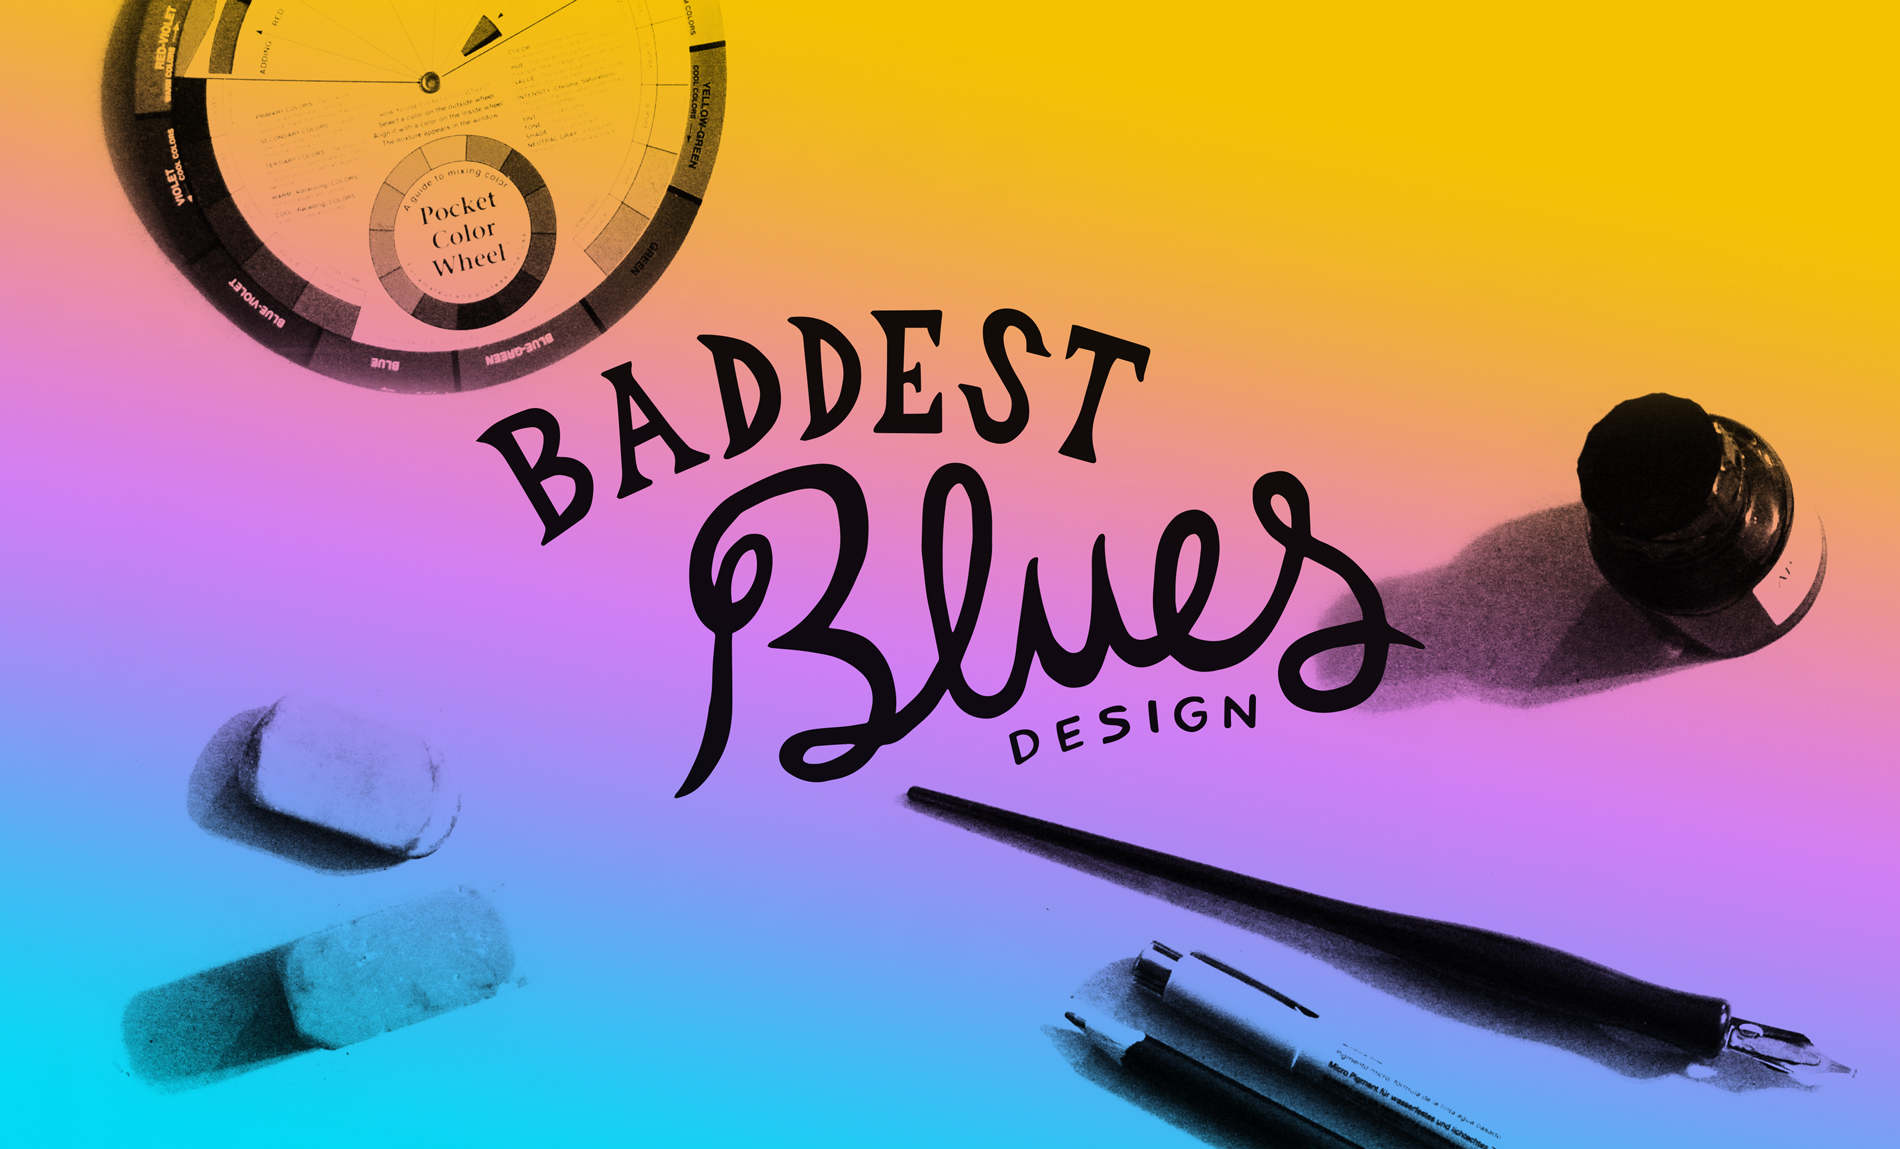
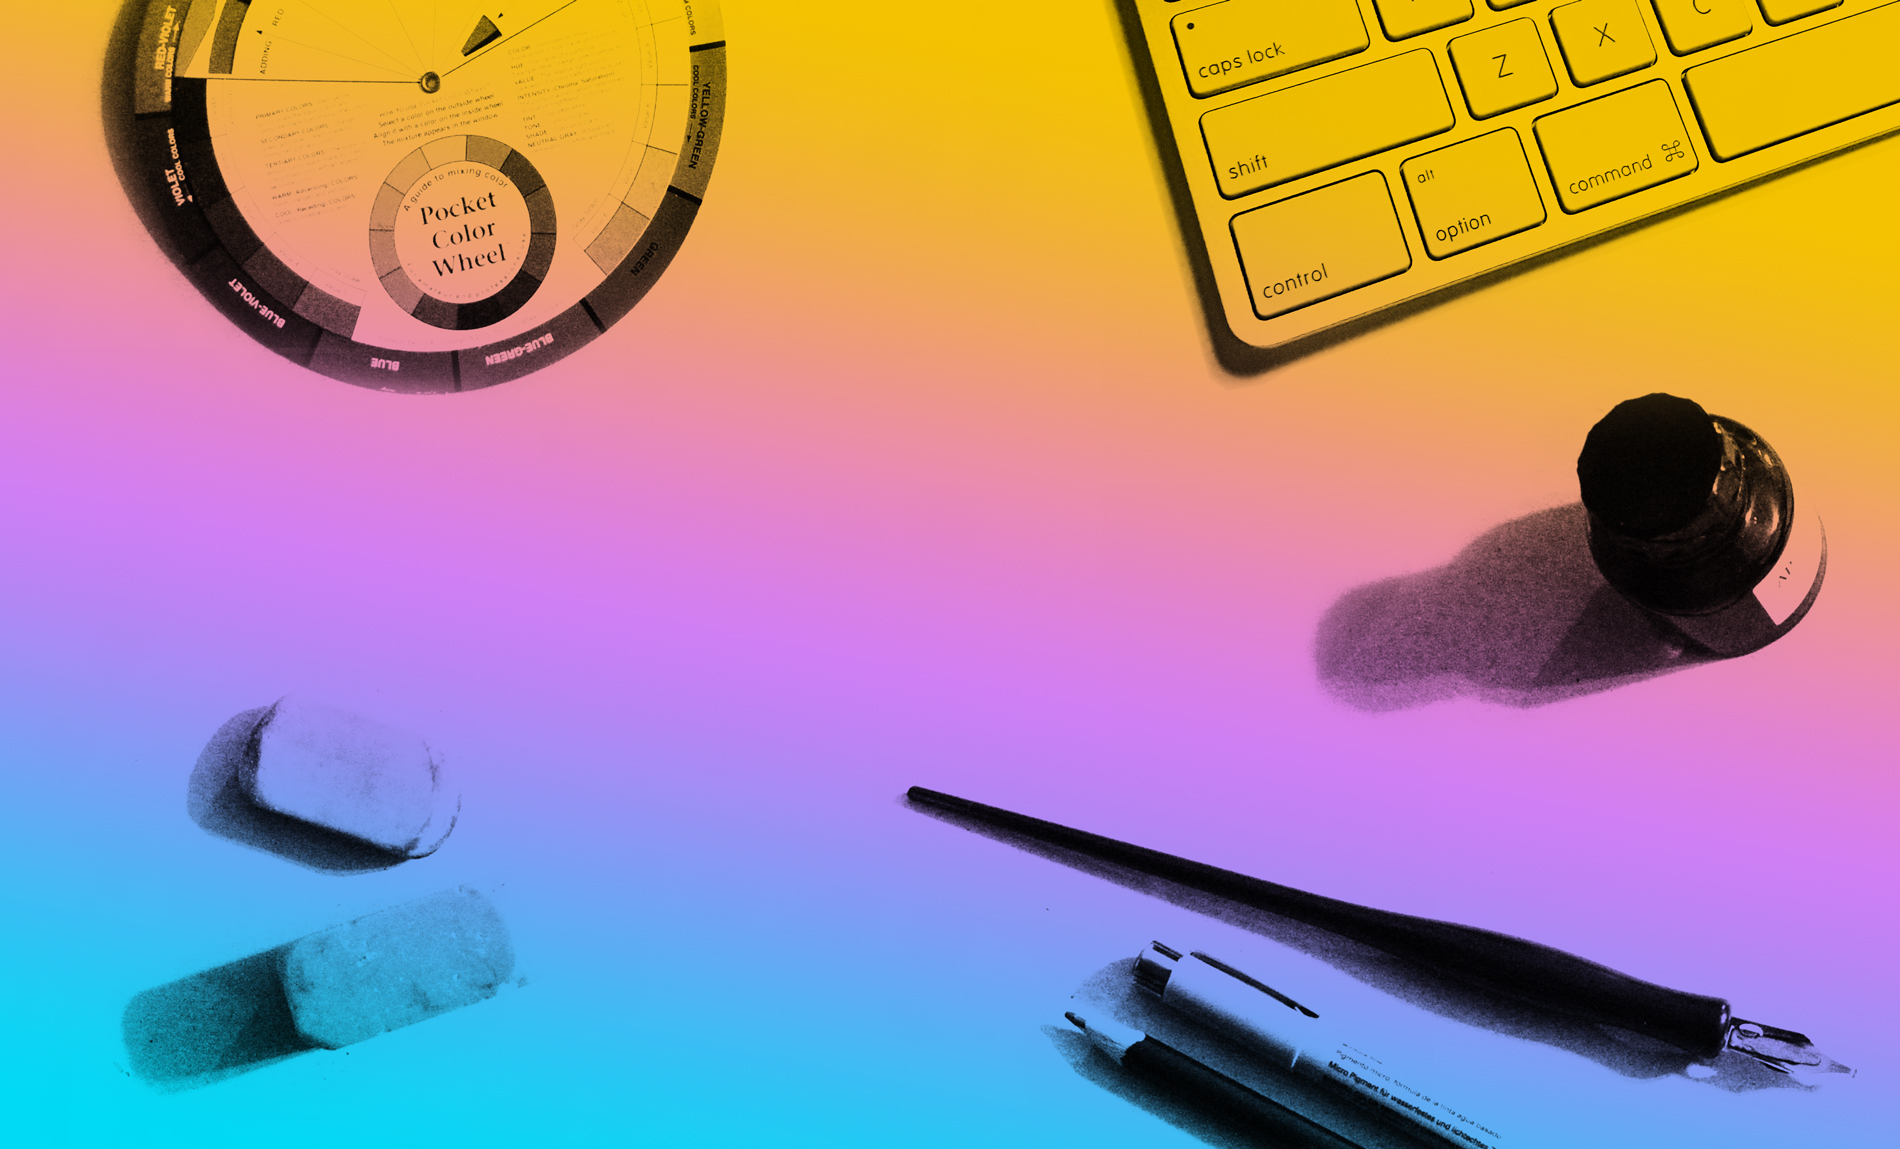
header fully responsive

Changed region(s): [[0.2484, 0.0, 1.0, 0.7006]]

diff --git a/styles/main.css b/styles/main.css
@@ -1,16 +1,14 @@
 body {
   font-family: 'Anonymous Pro', monospace;
-  color: black;
-  /*	padding-top: 70px;*/ }
+  color: black; }
 
 header {
   background-image: url(/images/landingimage.jpg);
   background-size: cover;
   height: 100vh;
-  display: flex;
-  flex-flow: column;
-  /*justify-content: center;*/
-  position: relative; }
+  /*  	display: flex;
+  	flex-flow: column;
+    position: relative;*/ }
 
 .nav-text {
   font-size: 2rem;
@@ -31,11 +29,19 @@ nav {
 .navbar .navbar-nav {
   display: inline-block;
   float: none;
-  /*overflow: hidden;*/
-  margin: 20px 0;
-  /*    position: fixed;
-    top: 0; 
-    width: 100%;*/ }
+  margin: 20px 0; }
+
+.primary-logo {
+  width: 575px; }
+
+.aligner {
+  display: flex;
+  align-items: center;
+  min-height: 45em;
+  justify-content: center; }
+
+.aligner-item {
+  max-width: 80%; }
 
 .box {
   background-color: blue;

diff --git a/sass/main.scss b/sass/main.scss
@@ -1,17 +1,15 @@
 body {
 	font-family: 'Anonymous Pro', monospace;
 	color: black;
-/*	padding-top: 70px;*/
 }
 
 header {
 	background-image: url(/images/landingimage.jpg);
   	background-size: cover;
   	height: 100vh;
-  	display: flex;
+/*  	display: flex;
   	flex-flow: column;
-    /*justify-content: center;*/
-    position: relative;
+    position: relative;*/
 }
 
 .nav-text {
@@ -37,11 +35,22 @@ nav {
 .navbar .navbar-nav {
     display: inline-block;
     float: none;
-    /*overflow: hidden;*/
     margin: 20px 0;
-/*    position: fixed;
-    top: 0; 
-    width: 100%;*/
+}
+
+.primary-logo {
+  width: 575px;
+}
+
+.aligner {
+	display: flex;
+	align-items: center;
+	min-height: 45em;
+	justify-content: center;
+}
+
+.aligner-item {
+	max-width: 80%;
 }
 
 .box {

diff --git a/partials/navbar.html b/partials/navbar.html
@@ -5,6 +5,10 @@
     </ul>
 </nav>
 
-<header></header>
+<header>
+	<div class="aligner">
+		<img class="primary-logo header-logo img-responsive aligner-item" src="/images/bbd_logo.png">
+	</div>
+</header>
 
 <div class="box"></div>
